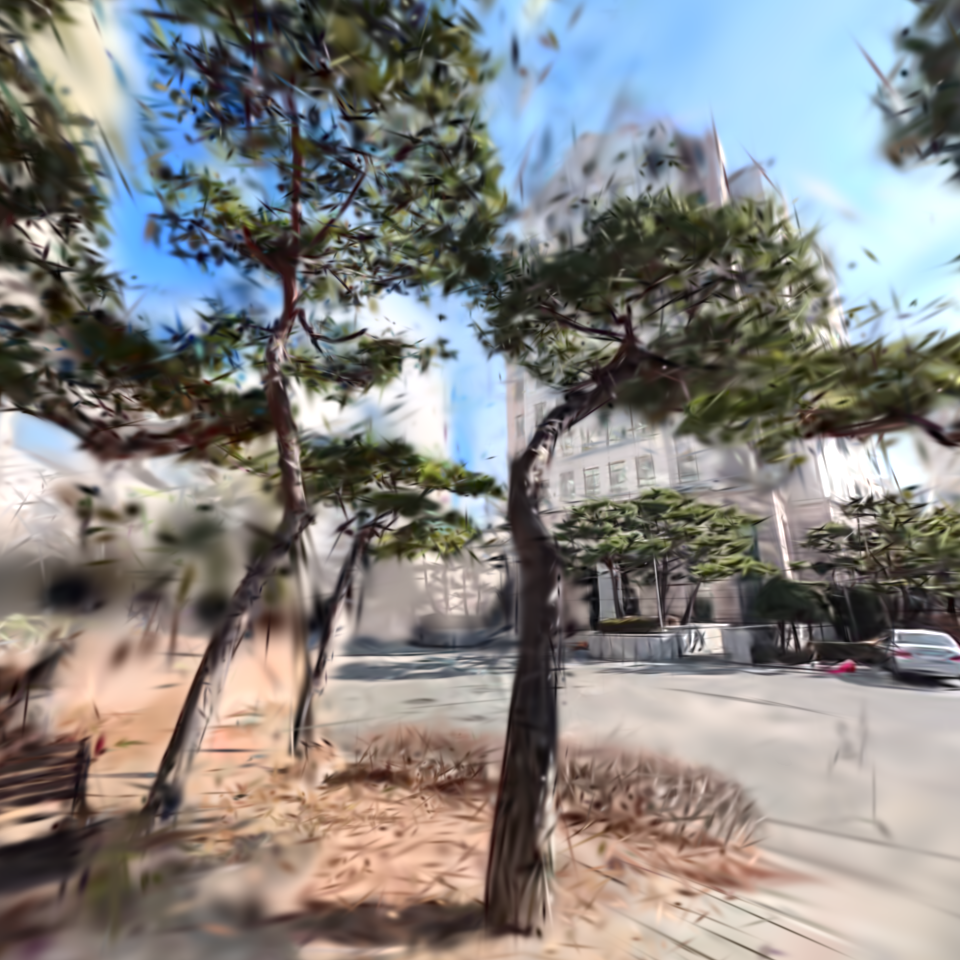
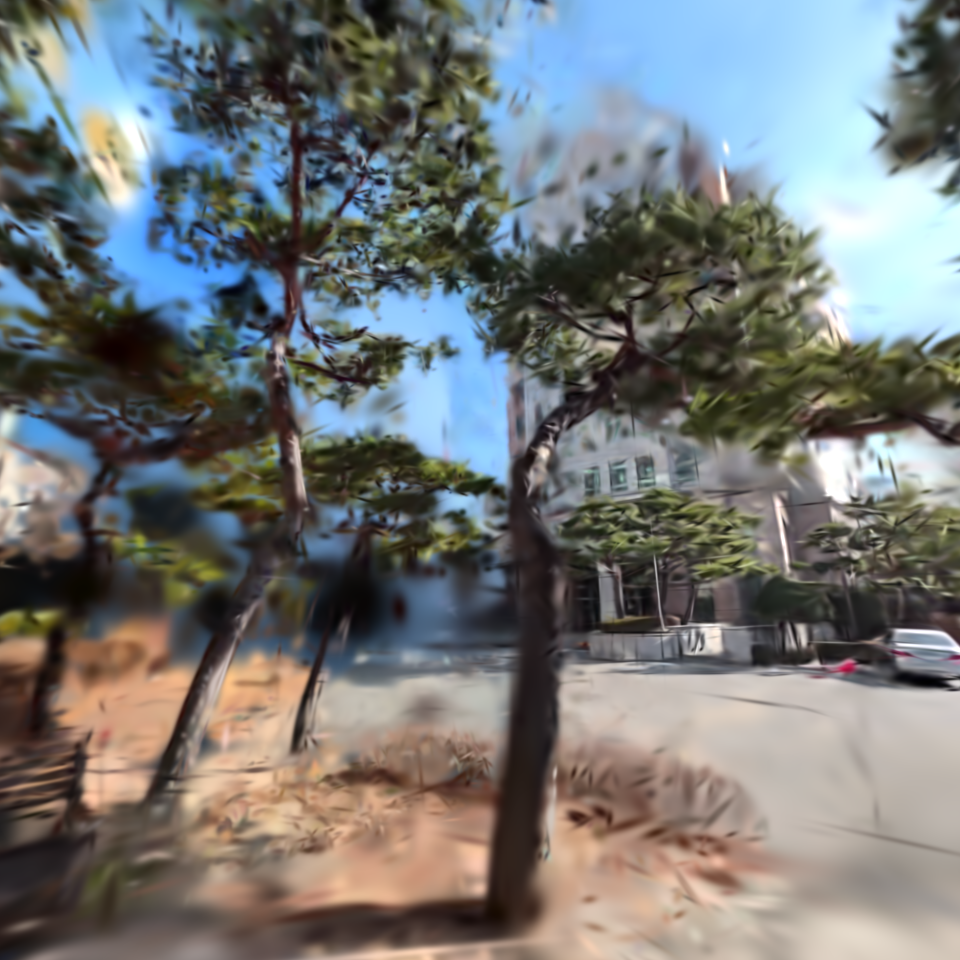
modify: modify 260326 docs

diff --git a/daily_docs/260326-ontheflynvs_rig_aware_implementation.md b/daily_docs/260326-ontheflynvs_rig_aware_implementation.md
@@ -134,14 +134,14 @@ flowchart LR
 
 ### 전체 메트릭 비교
 
-| Metric | Ref Only | Ref+Aux | 개선 폭 |
+| Metric | Ref Only HiQual | Ref+Aux HiQual | 개선 폭 |
 |---|---:|---:|---:|
-| PSNR | 10.778 | 15.478 | +4.700 |
-| SSIM | 0.228 | 0.451 | +0.223 |
-| LPIPS | 0.663 | 0.481 | -0.182 |
-| Keyframes | 18 | 23 | +5 |
+| PSNR | 11.128 | 15.168 | +4.040 |
+| SSIM | 0.243 | 0.417 | +0.174 |
+| LPIPS | 0.645 | 0.539 | -0.106 |
+| Keyframes | 16 | 23 | +7 |
 | Anchors | 1 | 1 | 0 |
-| Time (s) | 7.696 | 29.777 | +22.081 |
+| Time (s) | 6.609 | 22.431 | +15.822 |
 
 ---
 
@@ -152,14 +152,14 @@ flowchart LR
 <table>
   <thead>
     <tr>
-      <th width="50%">Ref Only</th>
-      <th width="50%">Ref+Aux</th>
+      <th width="50%">Ref Only HiQual</th>
+      <th width="50%">Ref+Aux HiQual</th>
     </tr>
   </thead>
   <tbody>
     <tr>
-      <td><img src="../video_picture/260326/ref_only_colmap_gui.png" alt="Ref Only COLMAP GUI"></td>
-      <td><img src="../video_picture/260326/ref_aux_colmap_gui.png" alt="Ref+Aux COLMAP GUI"></td>
+      <td><img src="../video_picture/260326/ref_only_colmap_gui.png" alt="Ref Only HiQual COLMAP GUI"></td>
+      <td><img src="../video_picture/260326/ref_aux_colmap_gui.png" alt="Ref+Aux HiQual COLMAP GUI"></td>
     </tr>
   </tbody>
 </table>
@@ -178,48 +178,48 @@ flowchart LR
     </tr>
     <tr>
       <td><img src="../video_picture/260326/qual_table_assets/frame_00001_gt.png" alt="frame_00001 GT"></td>
-      <td><img src="../video_picture/260326/qual_table_assets/frame_00001_ref.png" alt="frame_00001 Ref"></td>
-      <td><img src="../video_picture/260326/qual_table_assets/frame_00001_refaux.png" alt="frame_00001 Ref+Aux"></td>
+      <td><img src="../video_picture/260326/qual_table_assets/frame_00001_ref.png" alt="frame_00001 Ref HiQual"></td>
+      <td><img src="../video_picture/260326/qual_table_assets/frame_00001_refaux.png" alt="frame_00001 Ref+Aux HiQual"></td>
     </tr>
     <tr>
       <td colspan="3"><strong>frame_00161</strong></td>
     </tr>
     <tr>
       <td><img src="../video_picture/260326/qual_table_assets/frame_00161_gt.png" alt="frame_00161 GT"></td>
-      <td><img src="../video_picture/260326/qual_table_assets/frame_00161_ref.png" alt="frame_00161 Ref"></td>
-      <td><img src="../video_picture/260326/qual_table_assets/frame_00161_refaux.png" alt="frame_00161 Ref+Aux"></td>
+      <td><img src="../video_picture/260326/qual_table_assets/frame_00161_ref.png" alt="frame_00161 Ref HiQual"></td>
+      <td><img src="../video_picture/260326/qual_table_assets/frame_00161_refaux.png" alt="frame_00161 Ref+Aux HiQual"></td>
     </tr>
     <tr>
       <td colspan="3"><strong>frame_00321</strong></td>
     </tr>
     <tr>
       <td><img src="../video_picture/260326/qual_table_assets/frame_00321_gt.png" alt="frame_00321 GT"></td>
-      <td><img src="../video_picture/260326/qual_table_assets/frame_00321_ref.png" alt="frame_00321 Ref"></td>
-      <td><img src="../video_picture/260326/qual_table_assets/frame_00321_refaux.png" alt="frame_00321 Ref+Aux"></td>
+      <td><img src="../video_picture/260326/qual_table_assets/frame_00321_ref.png" alt="frame_00321 Ref HiQual"></td>
+      <td><img src="../video_picture/260326/qual_table_assets/frame_00321_refaux.png" alt="frame_00321 Ref+Aux HiQual"></td>
     </tr>
     <tr>
       <td colspan="3"><strong>frame_00481</strong></td>
     </tr>
     <tr>
       <td><img src="../video_picture/260326/qual_table_assets/frame_00481_gt.png" alt="frame_00481 GT"></td>
-      <td><img src="../video_picture/260326/qual_table_assets/frame_00481_ref.png" alt="frame_00481 Ref"></td>
-      <td><img src="../video_picture/260326/qual_table_assets/frame_00481_refaux.png" alt="frame_00481 Ref+Aux"></td>
+      <td><img src="../video_picture/260326/qual_table_assets/frame_00481_ref.png" alt="frame_00481 Ref HiQual"></td>
+      <td><img src="../video_picture/260326/qual_table_assets/frame_00481_refaux.png" alt="frame_00481 Ref+Aux HiQual"></td>
     </tr>
     <tr>
       <td colspan="3"><strong>frame_00641</strong></td>
     </tr>
     <tr>
       <td><img src="../video_picture/260326/qual_table_assets/frame_00641_gt.png" alt="frame_00641 GT"></td>
-      <td><img src="../video_picture/260326/qual_table_assets/frame_00641_ref.png" alt="frame_00641 Ref"></td>
-      <td><img src="../video_picture/260326/qual_table_assets/frame_00641_refaux.png" alt="frame_00641 Ref+Aux"></td>
+      <td><img src="../video_picture/260326/qual_table_assets/frame_00641_ref.png" alt="frame_00641 Ref HiQual"></td>
+      <td><img src="../video_picture/260326/qual_table_assets/frame_00641_refaux.png" alt="frame_00641 Ref+Aux HiQual"></td>
     </tr>
     <tr>
       <td colspan="3"><strong>frame_00801</strong></td>
     </tr>
     <tr>
       <td><img src="../video_picture/260326/qual_table_assets/frame_00801_gt.png" alt="frame_00801 GT"></td>
-      <td><img src="../video_picture/260326/qual_table_assets/frame_00801_ref.png" alt="frame_00801 Ref"></td>
-      <td><img src="../video_picture/260326/qual_table_assets/frame_00801_refaux.png" alt="frame_00801 Ref+Aux"></td>
+      <td><img src="../video_picture/260326/qual_table_assets/frame_00801_ref.png" alt="frame_00801 Ref HiQual"></td>
+      <td><img src="../video_picture/260326/qual_table_assets/frame_00801_refaux.png" alt="frame_00801 Ref+Aux HiQual"></td>
     </tr>
   </tbody>
 </table>
